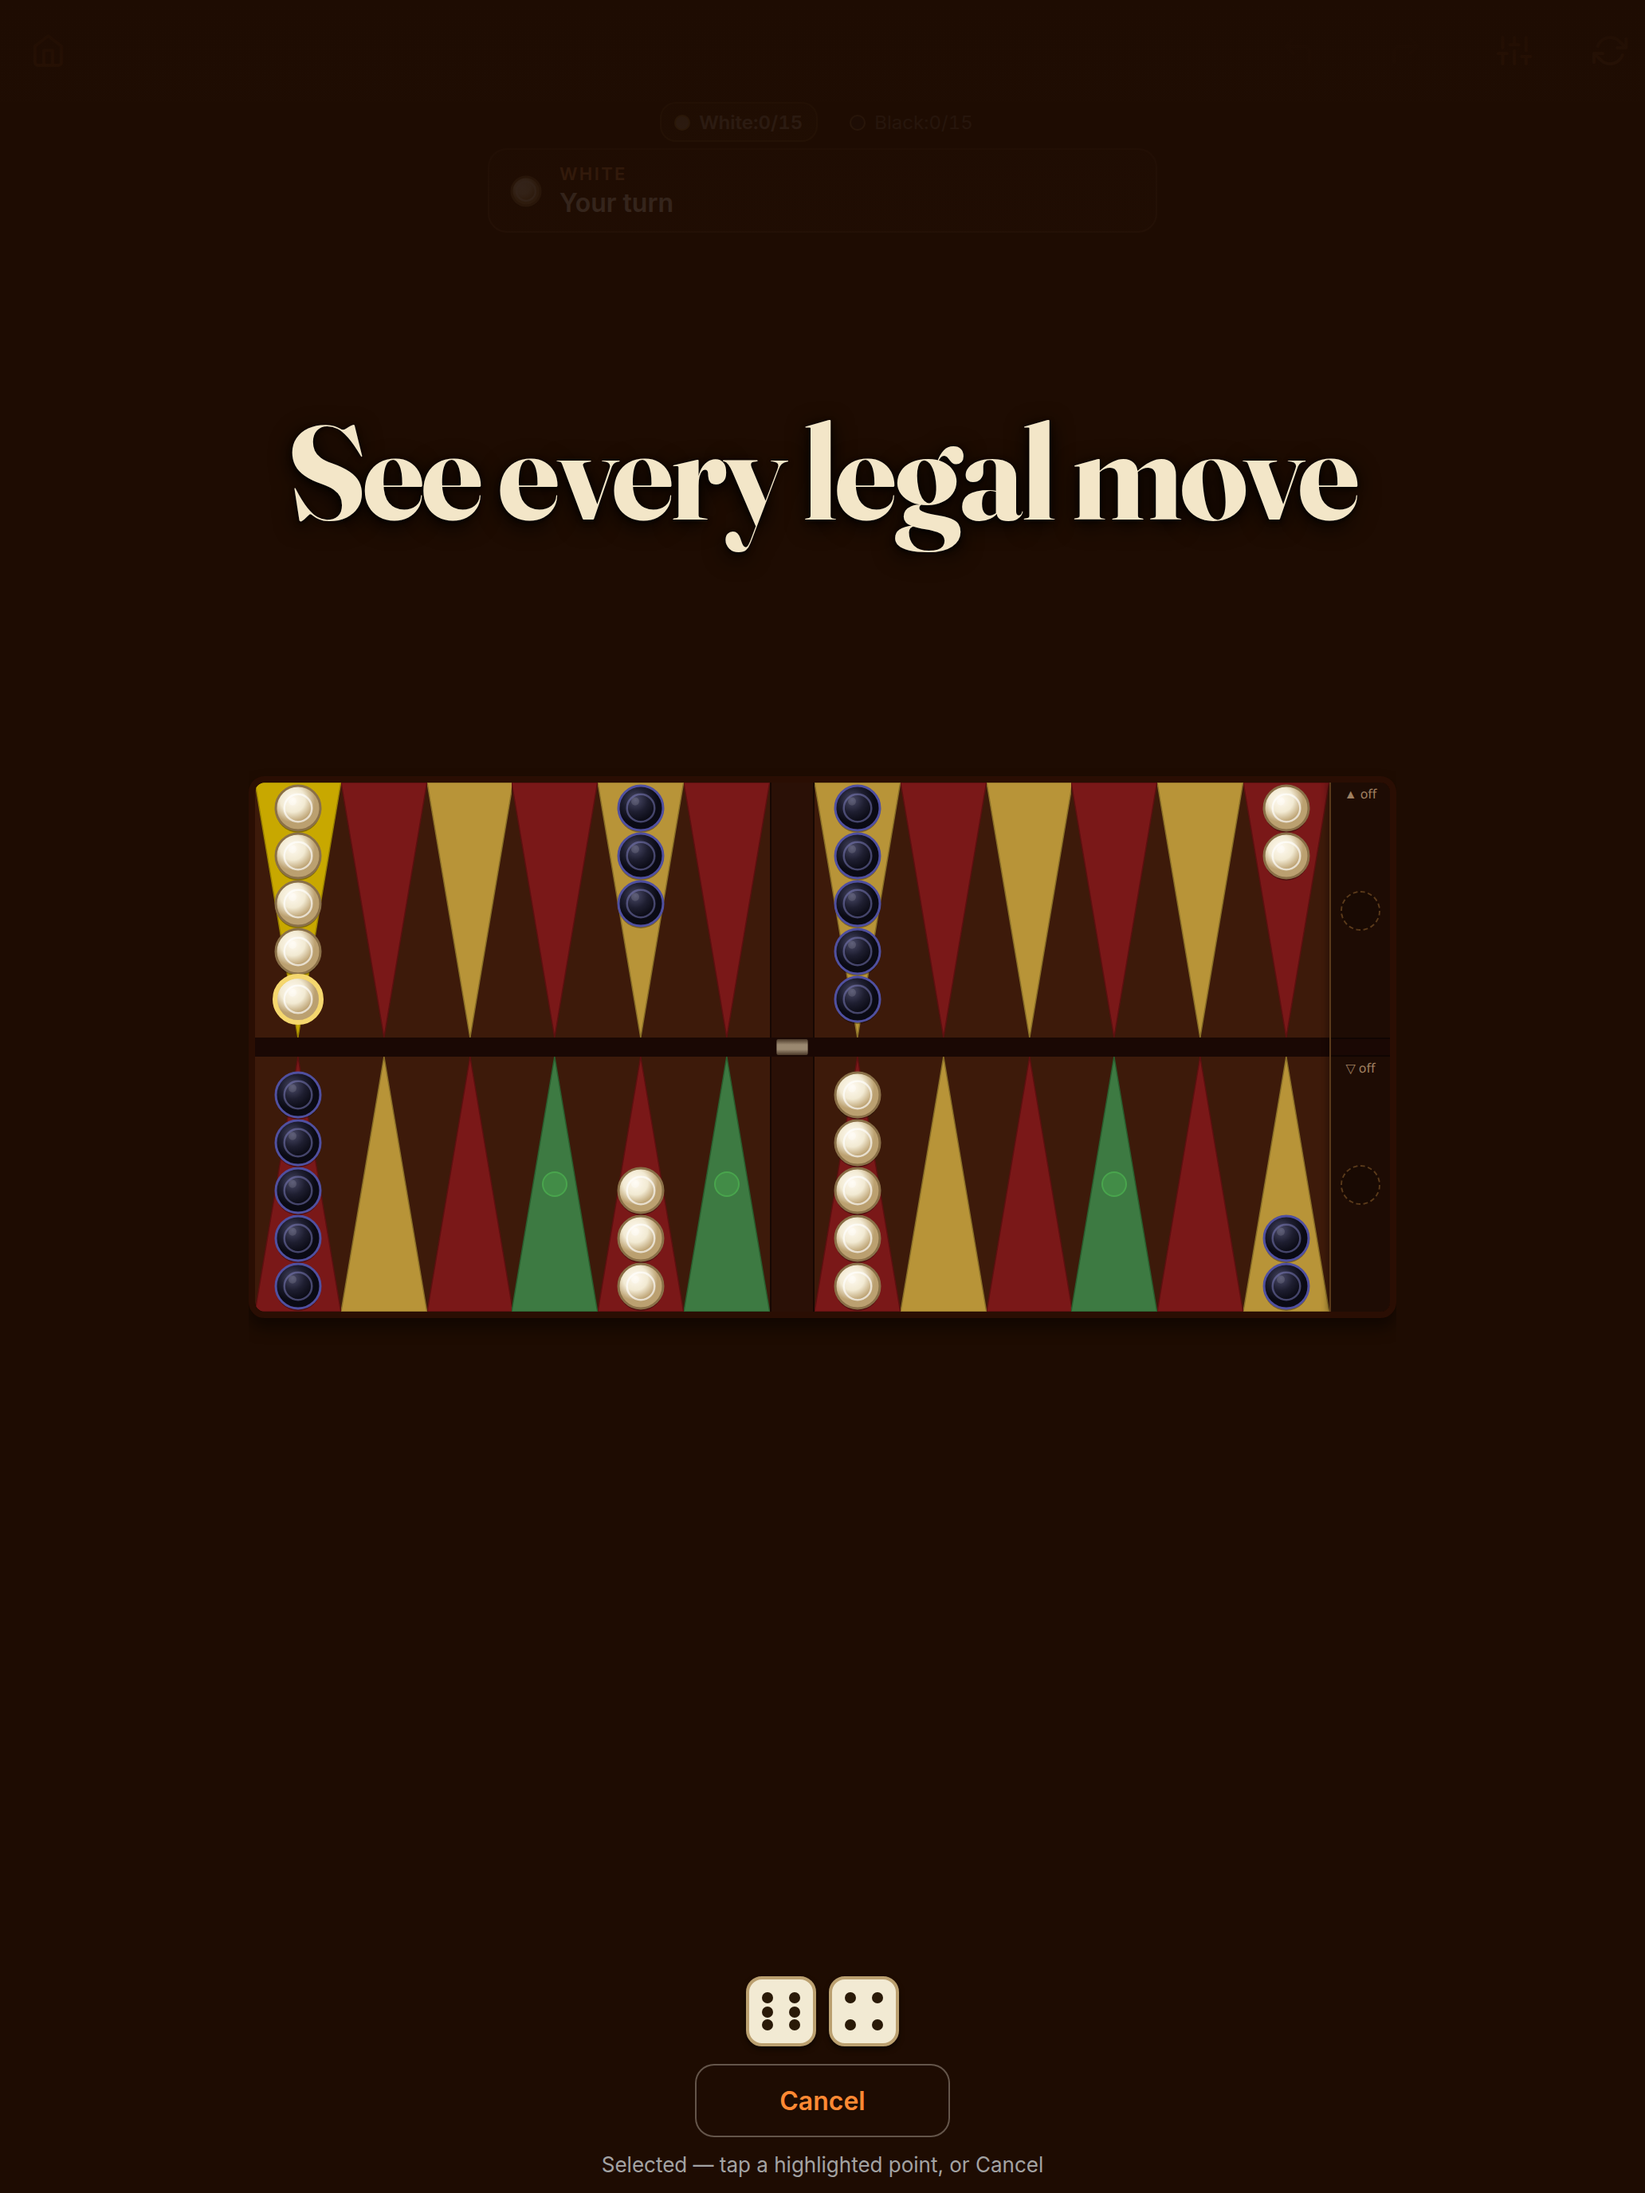
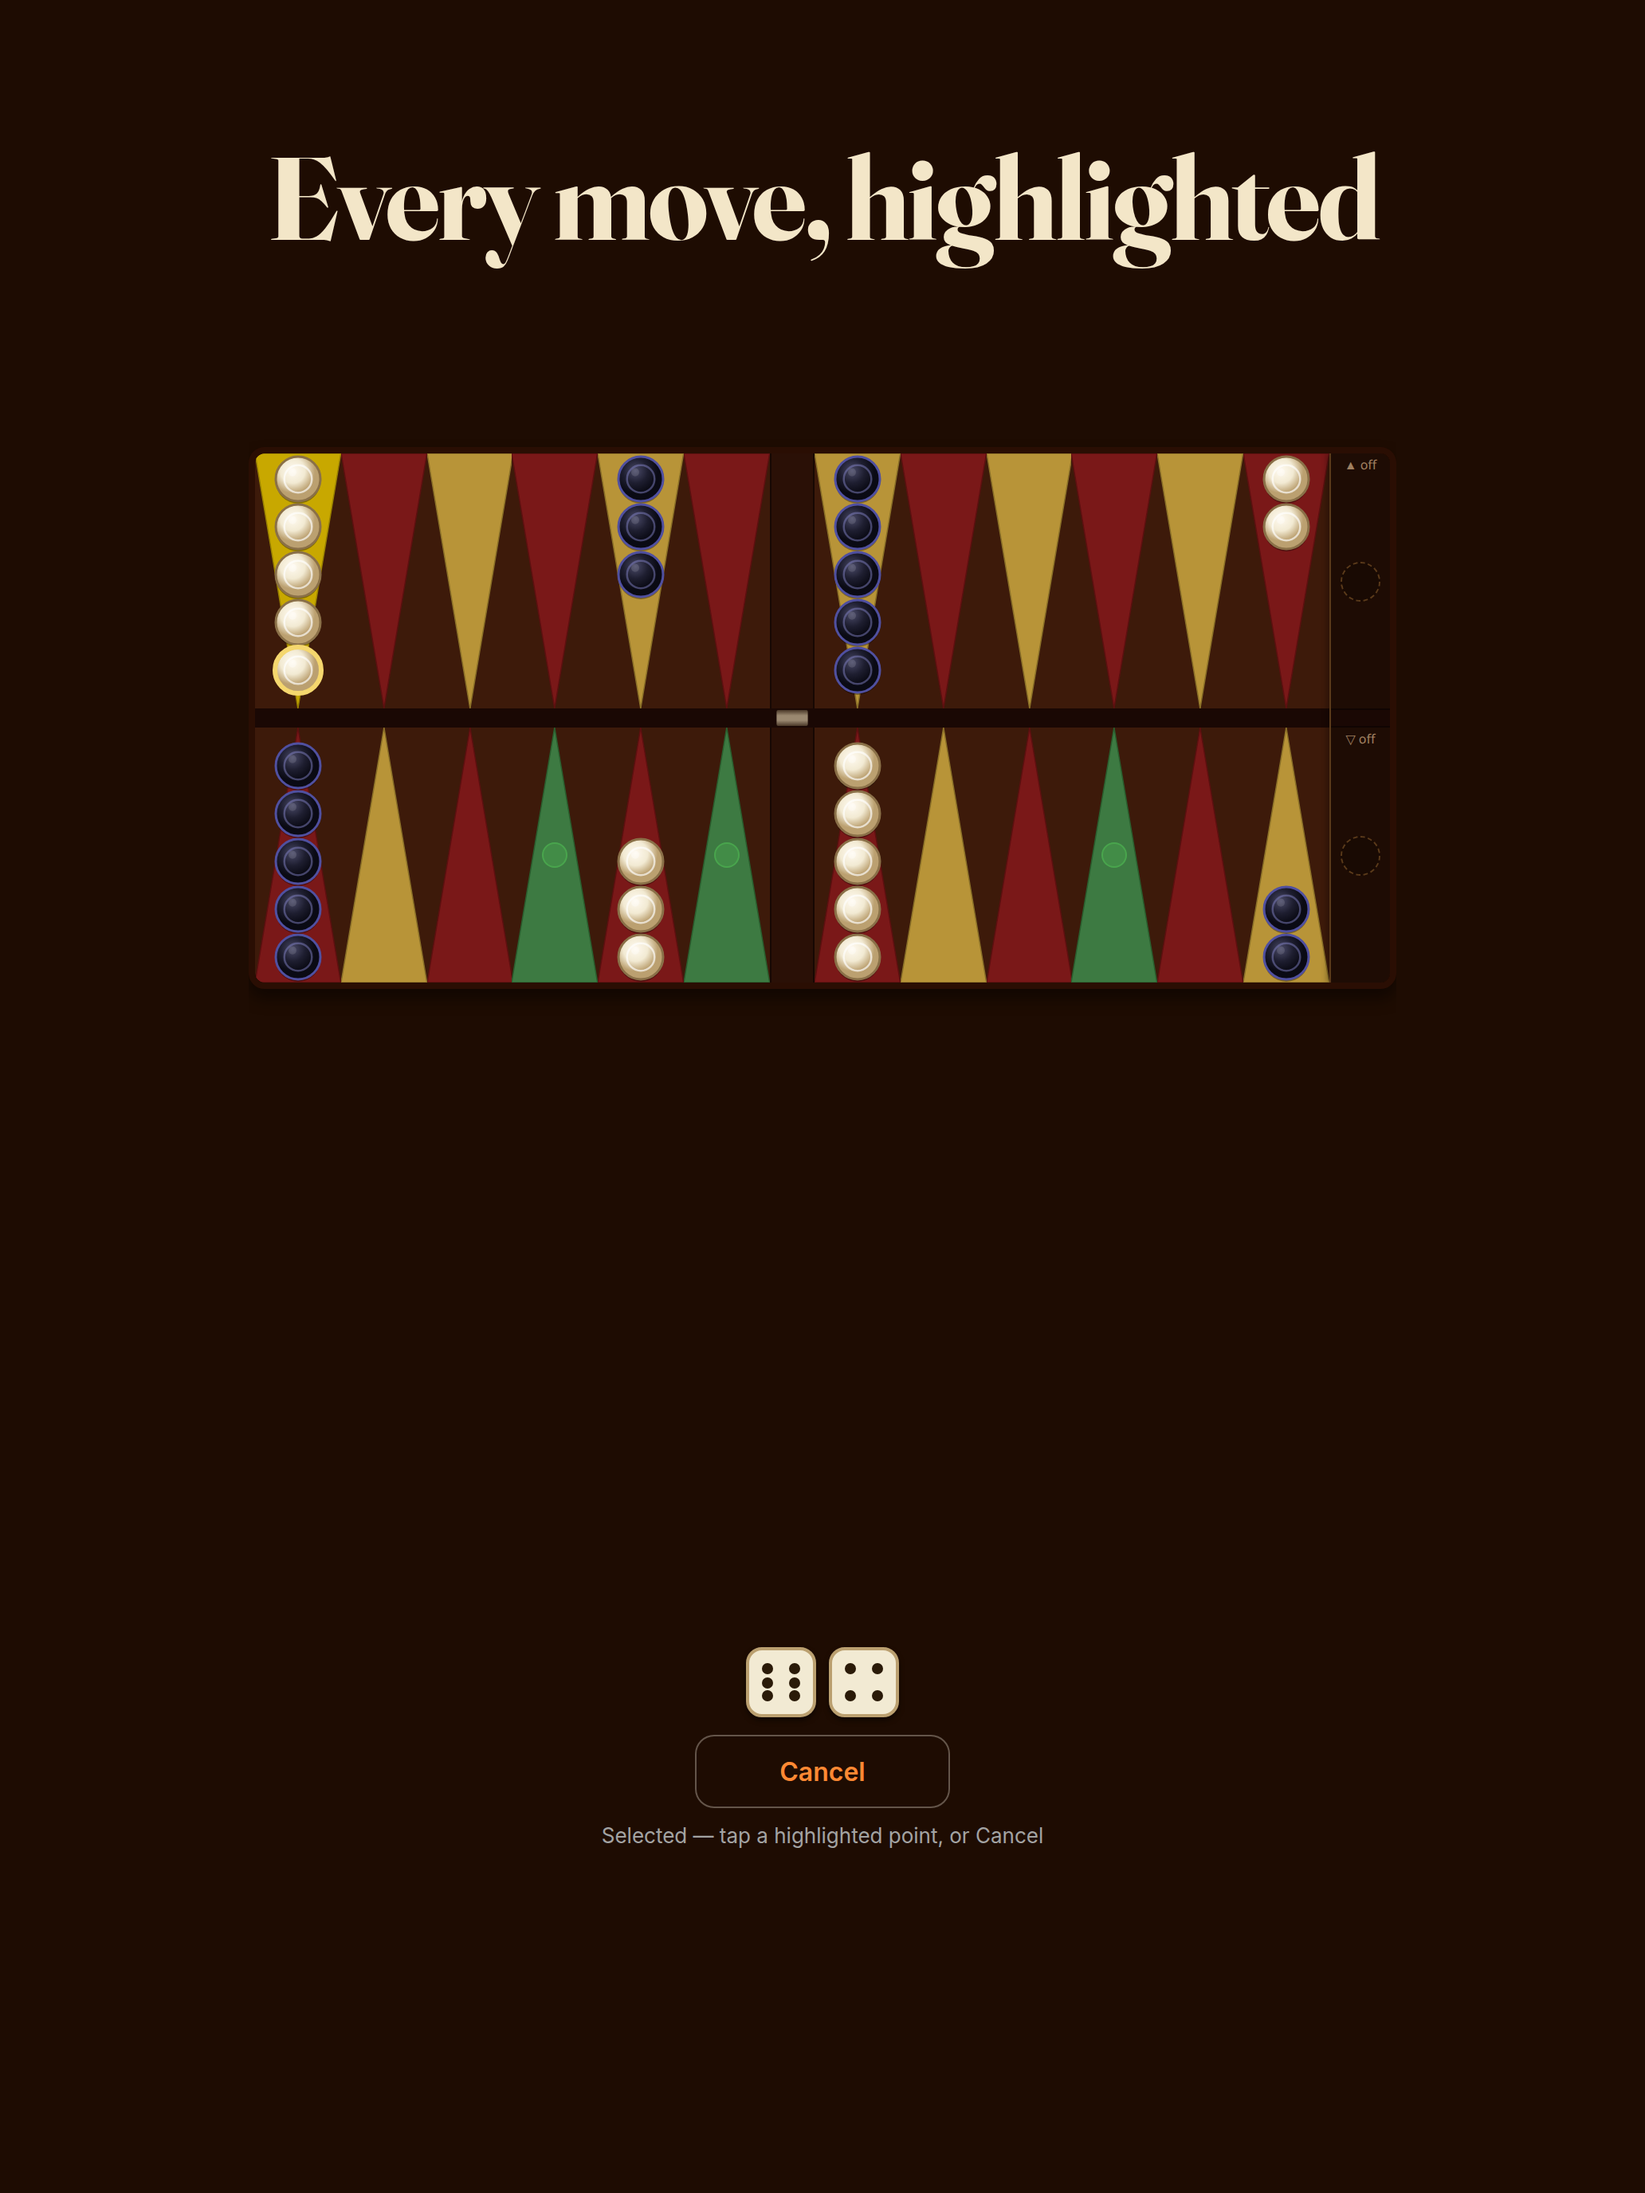
docs: separate screenshot headline band from the UI

diff --git a/scripts/compose-store-screenshots.test.ts b/scripts/compose-store-screenshots.test.ts
@@ -25,6 +25,7 @@ type Frame = {
   dest: string;
   headline?: string;
   sub?: string;
+  cropTop?: number;
 };
 
 type Manifest = {
@@ -76,32 +77,54 @@ describe('screenshot-frames manifest', () => {
       'ipad-13-05-home.png',
     ]);
     expect(manifest.frames.filter(f => f.device === 'iphone').map(f => f.headline)).toEqual([
-      'Play a real game',
-      'See every legal move',
-      'Learn by playing',
-      'Five short lessons',
+      'A thinking opponent',
+      'Every move, highlighted',
+      'Learn on the board',
+      'Five lessons. Then play.',
       undefined,
     ]);
     for (const frame of manifest.frames) {
       const isHome = frame.dest.includes('-home.');
       if (isHome) {
         expect(frame.headline).toBeFalsy();
+        expect(frame.cropTop).toBe(0);
         expect(JSON.stringify(frame)).not.toMatch(/Master the board/i);
         continue;
       }
       const n = wordCount(frame.headline ?? '');
       expect(n).toBeGreaterThanOrEqual(2);
       expect(n).toBeLessThanOrEqual(5);
+      expect(frame.sub).toBeUndefined();
     }
   });
 
-  it('is a bleed overlay, not a letterboxed gold bezel', () => {
-    expect(manifest.layout).toBe('bleed-overlay');
+  it('crops in-app chrome per scene so the headline band does not cover UI type', () => {
+    const byDest = Object.fromEntries(
+      manifest.frames.filter(f => f.device === 'iphone').map(f => [f.dest, f]),
+    );
+    expect(byDest['iphone-69-01-vs-computer.png']?.cropTop).toBeGreaterThanOrEqual(0.25);
+    expect(byDest['iphone-69-02-legal-highlights.png']?.cropTop).toBeGreaterThanOrEqual(0.25);
+    expect(byDest['iphone-69-03-lesson-hitting.png']?.cropTop).toBeGreaterThanOrEqual(0.3);
+    expect(byDest['iphone-69-04-learn-hub.png']?.cropTop).toBeGreaterThanOrEqual(0.12);
+    expect(byDest['iphone-69-05-home.png']?.cropTop).toBe(0);
+    for (const frame of manifest.frames) {
+      expect(frame.cropTop).toBeGreaterThanOrEqual(0);
+      expect(frame.cropTop).toBeLessThanOrEqual(1);
+    }
+  });
+
+  it('is two opaque zones, not a gradient overlay or gold bezel', () => {
+    expect(manifest.layout).toBe('two-zone');
     expect(manifest.colors.background).toBe('#1E0C02');
+    expect(manifest.colors.headline).toBe('#F3E6C8');
     const src = readFileSync(SCRIPT, 'utf8');
     expect(src).toMatch(/object-fit:cover/);
     expect(src).toMatch(/object-position:top center/);
     expect(src).toMatch(/font-family:Fraunces/);
+    expect(src).toMatch(/cropTop/);
+    expect(src).toMatch(/class="band"/);
+    expect(src).not.toMatch(/linear-gradient/);
+    expect(src).not.toMatch(/class="veil"/);
     expect(src).not.toMatch(/font-family:Inter/);
     expect(src).not.toMatch(/class="device"/);
     expect(src).not.toMatch(/class="wordmark"/);
@@ -129,7 +152,7 @@ describe('compose-store-screenshots', () => {
         version: '1.0.0',
         rawDir: 'app-store-screenshots/raw',
         outDir: 'app-store-screenshots',
-        layout: 'bleed-overlay',
+        layout: 'two-zone',
         colors: {
           background: '#1E0C02',
           headline: '#F3E6C8',
@@ -143,7 +166,8 @@ describe('compose-store-screenshots', () => {
             device: 'iphone',
             source: 'iphone-69-04-vs-computer.png',
             dest: 'iphone-69-01-vs-computer.png',
-            headline: 'Play a real game',
+            headline: 'A thinking opponent',
+            cropTop: 0.3,
           },
         ],
       };

diff --git a/docs/marketing/v1.0.0/README.md b/docs/marketing/v1.0.0/README.md
@@ -2,7 +2,7 @@
 
 ## Screenshots
 
-Raw captures: `app-store-screenshots/raw/` from **production** Expo web (`EXPO_PUBLIC_APP_ENV=production`) at Apple’s pixel sizes. No Preview badge, no `0.1.3`, no browser chrome, no Maestro watermark. Headlines live in `screenshot-frames.json`. Compose uses **bleed + overlay** (raw UI fills the canvas; Fraunces headline on a top gradient; no gold bezel). Composed (upload) PNGs: `app-store-screenshots/*.png`.
+Raw captures: `app-store-screenshots/raw/` from **production** Expo web (`EXPO_PUBLIC_APP_ENV=production`) at Apple’s pixel sizes. No Preview badge, no `0.1.3`, no browser chrome, no Maestro watermark. Headlines live in `screenshot-frames.json`. Compose uses **two zones** that do not share pixels: an opaque `#1E0C02` copy band (headline only) and the raw capture cropped by `cropTop` so in-app chrome is gone. Full-width product, no gold bezel, no gradient overlay. Composed (upload) PNGs: `app-store-screenshots/*.png`.
 
 Recapture (Mac iOS simulators are not required):
 
@@ -34,11 +34,11 @@ iPhone 6.9" is 440×956 CSS at deviceScaleFactor 3 (physical 1320×2868). iPad P
 
 ### Carousel (same five on both devices, composed order)
 
-1. **vs Computer** — headline “Play a real game”. Full board + dice, opening overlay dismissed.
-2. **Legal-move highlights** — headline “See every legal move”. Checker selected, destinations lit.
-3. **Hitting & the bar** — headline “Learn by playing”. One live-board lesson.
-4. **Learn hub** — headline “Five short lessons”. Full lesson list.
-5. **Home** — no overlay headline (the in-app lockup already says “Master the board”). Logo lockup, Learn / vs Computer / 2 Players (no Resume, no Preview).
+1. **vs Computer** — headline “A thinking opponent”. Board + dice (top chrome cropped).
+2. **Legal-move highlights** — headline “Every move, highlighted”. Checker selected, destinations lit (top chrome cropped).
+3. **Hitting & the bar** — headline “Learn on the board”. Lesson board + dice + Hint (lesson copy cropped).
+4. **Learn hub** — headline “Five lessons. Then play.” Five lesson rows + Skip to play (hub intro cropped).
+5. **Home** — no marketing headline, cropTop 0 (the in-app lockup is the shot). Logo lockup, Learn / vs Computer / 2 Players (no Resume, no Preview).
 
 Raw scene files keep their capture names under `raw/` (01-home … 05-legal-highlights). Compose remaps and reorders via the JSON manifest.
 
